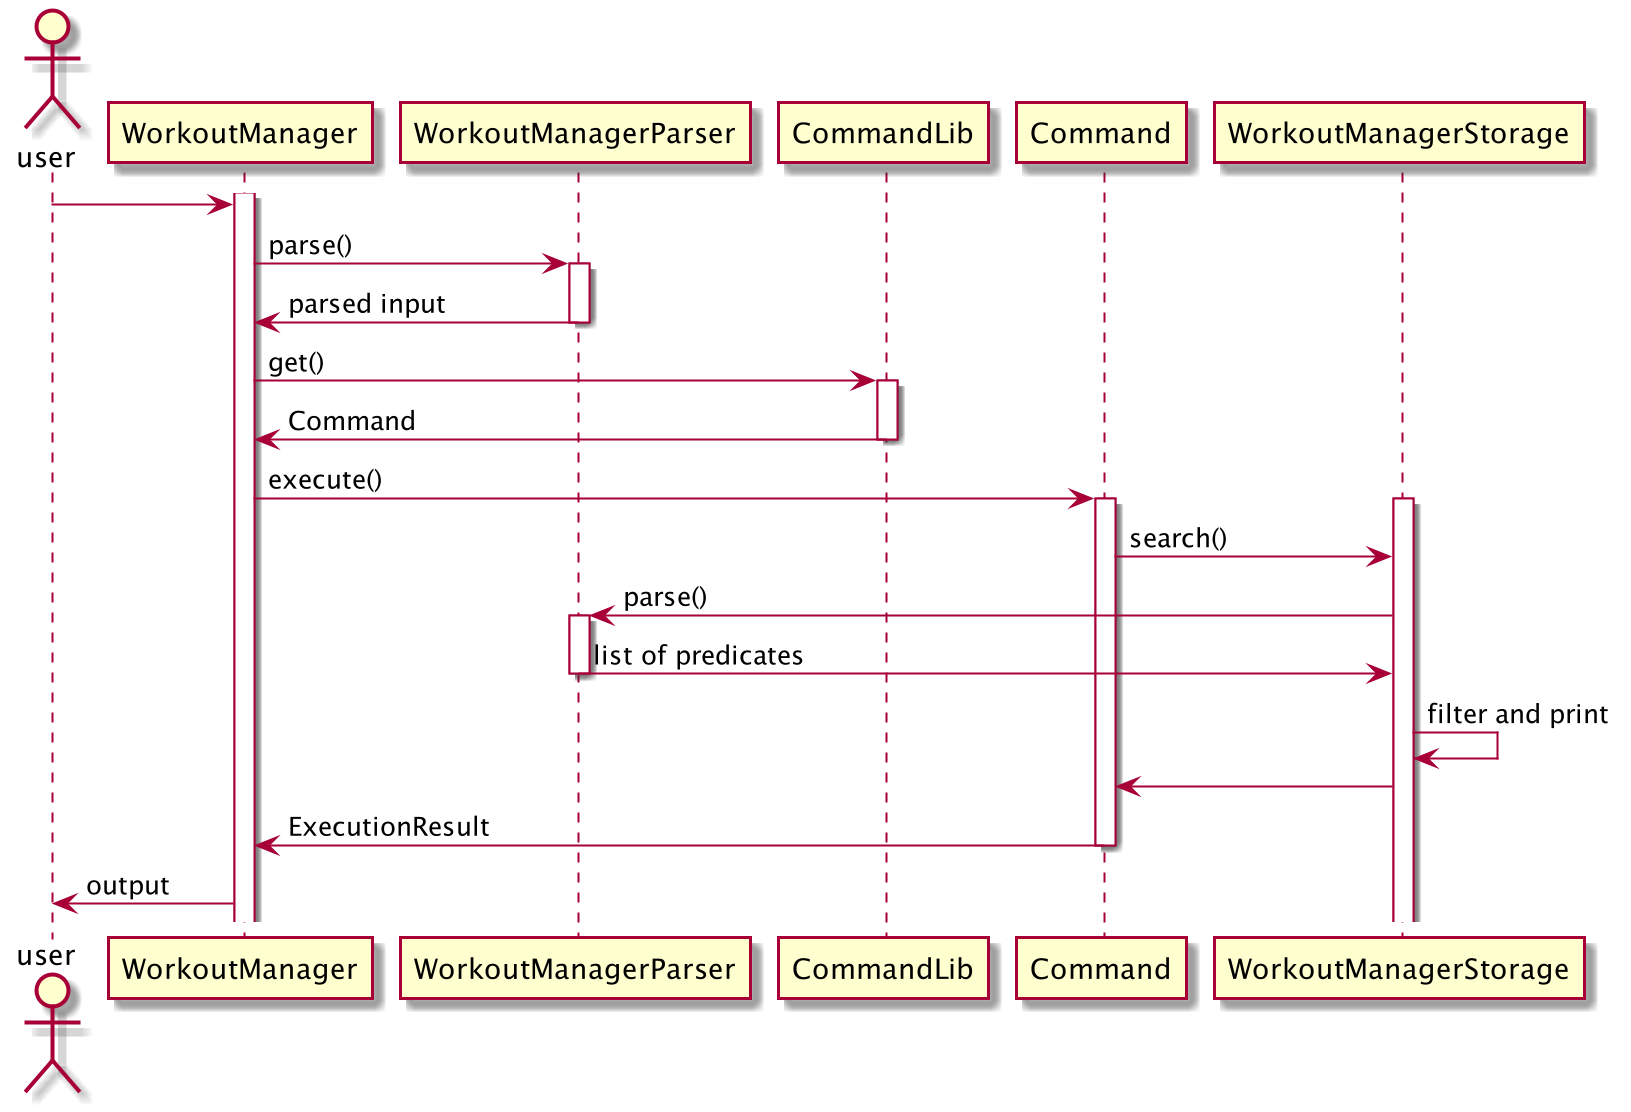
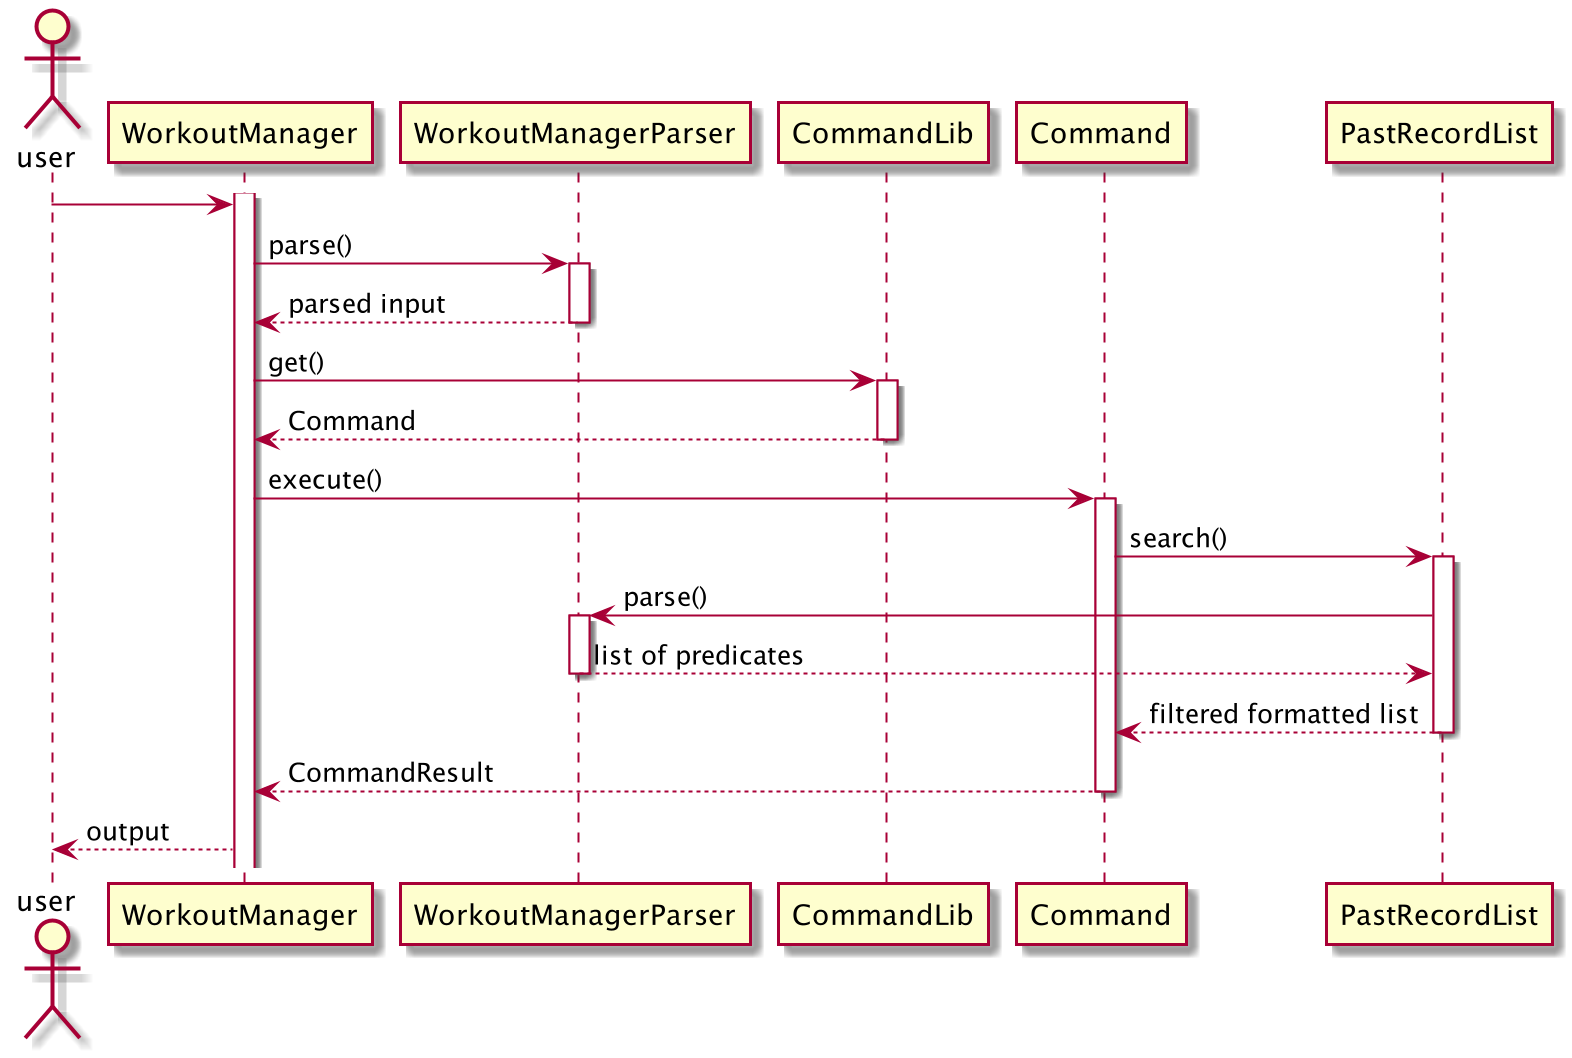
update dg

Changed region(s): [[0.0, 0.0, 0.9975, 0.9981]]

diff --git a/docs/DeveloperGuide.md b/docs/DeveloperGuide.md
@@ -679,7 +679,7 @@ actions are called to return a command object NewWs.
     4. `NewWS` creates a new `WorkoutSession` Object with the file path. 
     5.  `NewWS` calls `workoutSession. workoutSessionStart()` so that user can add information into this session.
     6. After user exits this workout, `WorkoutManager` returns a `CommandResult`.
-1. Based on `CommandResult`, correct response will be be printed to user.
+1. Based on `CommandResult`, correct response will be printed to user.
 
 All description, warnings and response will be handled by `Ui` to ensure consistence across the app.
 The following sequence diagram shows how the new command works
@@ -725,7 +725,7 @@ actions are called to return a command object NewWs.
     1. `WorkoutManager` calls `WorkoutSessionAdd.execute()` with the rest of parsed input.
     2. `WorkoutSessionAdd` parse the arguments to identify the repetitions and weight for the exercise.
     3. `WorkoutSessionAdd` calls `WorkOutSession.Storage.writeToFile()` to store information of all exercises recorded. 
-1. Based on `ExecutionResult`, correct response will be be printed to user.
+1. Based on `ExecutionResult`, correct response will be printed to user.
 
 All description, warnings and response will be handled by `ui` to ensure consistence across the app.
 The following sequence diagram shows how the add command works
@@ -755,7 +755,7 @@ actions are called to return a command object NewWs.
     1. `WorkoutManager` calls `WorkoutSessionAdd.execute()` with the rest of parsed input.
     2. `WorkoutSessionAdd` parse the arguments to identify the repetitions and weight for the exercise.
     3. `WorkoutSessionAdd` calls `WorkOutSession.Storage.writeToFile()` to store information of all exercises recorded. 
-1. Based on `ExecutionResult`, correct response will be be printed to user.
+1. Based on `ExecutionResult`, correct response will be printed to user.
 
 All description, warnings and response will be handled by `ui` to ensure consistence across the app.
 The following sequence diagram shows how the add command works
@@ -781,14 +781,12 @@ The sequence diagram below summarizes how creating new workout session works:
 
 [&#8593; Return to Top](#developer-guide)
 #### 4.4.2. Listing past workout sessions
-The feature to list workoutSessions allows the user to view a summary of all the history 
-workout sessions, including their index, creation date and tags.
+The feature to list workoutSessions allows the user to view a summary of all the history workout sessions, including their index, creation date and tags.
 
 **Implementation**
-When the user attempts to list workoutSessions, the WorkoutManger, WorkoutManagerParse, ListWS and 
-WorkoutManagerStorage class will be called upon. The following sequence of steps will then occur:
+When the user attempts to list workoutSessions, the WorkoutManger, WorkoutManagerParse, ListWS and WorkoutManagerStorage class will be called upon. The following sequence of steps will then occur:
 
-1. User executes `list`
+1. User executes `list /s 20201010 /e 20201025`
      1. `WorkoutManager` calls `Ui.getUserCommand()` to receive user input.
      2. `WorkoutManager` calls `WorkoutManagerParser.parse` into a string array
 1. Creation of command object.
@@ -798,7 +796,10 @@ WorkoutManagerStorage class will be called upon. The following sequence of steps
     3. `ListWS` calls `PastRecordList.list()`
     1. `PastRecordList` will return formatted list.
     6. `WorkoutManager` returns a `CommandResult` which contains the formated list and execution result.
-1. Based on `ExecutionResult`, correct response will be be printed to user.
+1. Based on `CommandResult`, correct response will be printed to user.
+
+![Load Data Sequence Diagram](pictures/zesong/ListWS.png)
+
 **Design considerations**
 Aspects: Security of stored data
 
@@ -817,8 +818,6 @@ print the list
 |**Pros** | More versatile operations can be done.|  
 |**Cons** | All data of pastRecord will be exposed.|
 
-![Load Data Sequence Diagram](pictures/zesong/ListWS.png)
-
 [&#8593; Return to Top](#developer-guide)
 #### 4.4.3. Editing workout session
 User can anytime go back to edit a workout session created in the past such as
@@ -830,8 +829,7 @@ stored in another file which will be loaded as the program initlises.
 The actual workout session record will only be loaded if needed e.g. when editting is called. 
 
 **Implementation**
-When the user attempts to edit a past workout session, the Ui, WorkoutManagerParser, CommandLib
-and WorkoutStorage class will be accessed and the following sequence of 
+When the user attempts to edit a past workout session, the Ui, WorkoutManagerParser, CommandLib and WorkoutStorage class will be accessed and the following sequence of 
 actions are called.
 
 1. User executes `edit 1`
@@ -841,7 +839,7 @@ actions are called.
      1. Based on the parsed input, `WorkoutManager` calls `CommandLib` to return the correct Command Object `EditWS`.
 1. Executing Command
     1. `WorkoutManager` calls `EditWS.execute()` with the rest of parsed input.
-    3. `EditWS` calls `PastRecordList.edit()` to locate the file. If the does not exist, the action is aborted. Else, `PastRecordList` updates the meta information of the file. The file path will be returned.
+    3. `EditWS` calls `PastRecordList.edit()` to locate the file. If the does not exist, the action is aborted. Else, `PastRecordList` updates the meta information of the file and write to local storage. The file path will be returned.
     4. `EditWS` creates a new `WorkoutSession` Object with the file path. `WorkoutSession` is initilised by loading the data in the file.
     5.  `EditWS` calls `workoutSession.workoutSessionStart()` so that user start editing this session.
     6. After user exits this workout, `WorkoutManager` returns a `CommandResult`.
@@ -874,14 +872,9 @@ meta information in a separate file
 #### 4.4.4. Deleting a workout session
 User can delete a workout session created in the past by giving its index.
 
-Each past workout session is stored in a different file name following its creation time.
-The meta information of these past records such as file name, creation time are
-stored in another file which will be loaded as the program initlises.
-When the user tries to delete a file, the application refers to the meta information of the file to locate the
-file and delete it. Then the meta information of the record will be deleted.
+Each past workout session is stored in a different file name following its creation time. The meta information of these past records such as file name, creation time are stored in another file which will be loaded as the program initlises. When the user tries to delete a file, the application refers to the meta information of the file to locate the file and delete it. Then the meta information of the record will be deleted.
 
-User can clear all data by iteratively delete the record until the meta data file is empty. To simplify that,
-user can use `clear` command to achieve that.
+User can clear all data by iteratively delete the record until the meta data file is empty. To simplify that, user can use `clear` command to achieve that.
 
 **Implementation**
 
@@ -896,11 +889,14 @@ and WorkoutStorage class will be accessed and the following sequence of actions 
      or `clearWS`.
 1. Executing Command
     1. `WorkoutManager` calls `DeleteWS.execute()` with the rest of parsed input.
-    3. `DeleteWS` calls `PastRecorList.delete()` to locate the file. If the does not exist, the action is aborted. Else, `PastRecorList` remove the meta information of the file and delete the record file.
+    3. `DeleteWS` calls `PastRecorList.delete()` to locate the file. If the does not exist, the action is aborted. Else, `PastRecorList` remove the meta information of the file and delete the local storage file.
     6. After user exits this workout, `WorkoutManager` returns a `CommandResult`.
 1. Based on `CommandResult`, correct response will be printed to user.
 
 All description, warnings and response will be handled by `Ui` to ensure consistence across the app.
+
+The sequence diagram below summarizes how deleting past record works:
+![Load Data Sequence Diagram](pictures/zesong/DeleteWS.png)
 
 **Design considerations**
 
@@ -915,31 +911,26 @@ All description, warnings and response will be handled by `Ui` to ensure consist
 
 |     |     |
 |-----|-----|
-|**Pros** | More alteratives for users. Can bulk delete files with certain attributes|  
+|**Pros** | More alternatives for users. Can bulk delete files with certain attributes|  
 |**Cons** | Tags and dates does not uniquely identify the record hence may result in accidental wrong deletion|
 #### 4.4.5. Searching based on conditions
 The feature `search` allows the user to view a summary of all the history 
 workout sessions which satisfies certain conditions.
 
-The user can search by the date of creation or the tags that the session has. User can put in 0
+The user can search by the date of creation, or the tags that the session has. User can put in 0
 or 1 or 2 criteria during search. 
 
-**Implementation**
-Format: `search /t <tag1> <tag2> /d <date>`
 
-The user can attach variable number of tags after `/t` and one date after `/d`. The date must be specified
-in certain formats for it to be recognisable. Else, it will be treated as there is no date criteria given.
+The user can attach variable number of tags after `/t` and one date after `/d`. The date must be specified in certain formats for it to be recognisable. Else, it will be treated as there is no date criteria given.
 [See here](#appendix-g-supported-formats-of-date-input) for all supported formats.
 
-The tag criterion selects sessions which contains all the tags that the user specified in the search.
-The date criterion selects the sessions which is created on that date. Only sessoins that satisfies all condtions 
-will be selected and displayed.
+The tag criterion selects sessions which contains all the tags that the user specified in the search. The date criterion selects the sessions which is created on that date. Only sessions that satisfies all conditions will be selected and displayed.
 
-The result is displayed in a table with the index of the selected records so that users can easily 
-do further operations on them, e.g. `delete` or `edit`.
+The result is displayed in a table with the index of the selected records so that users can easily do further operations on them, e.g. `delete` or `edit`.
  
-When the user attempts to list workoutSessions, the WorkoutManger, DeleteWS, WorkoutManagerStorage and 
-WorkoutManagerParse class will be called upon. The following sequence of steps will then occur:
+ **Implementation**
+ 
+When the user attempts to list workoutSessions, the WorkoutManger, DeleteWS, WorkoutManagerStorage and WorkoutManagerParse class will be called upon. The following sequence of steps will then occur:
 
 1. User executes `search /t leg /d 20201017`
      1. `WorkoutManager` calls `Ui.getUserCommand()` to receive user input.
@@ -948,22 +939,18 @@ WorkoutManagerParse class will be called upon. The following sequence of steps w
      1. Based on the parsed input, `WorkoutManager` calls `CommandLib` to return the correct Command Object `SearchWS`.
 1. Executing Command
     1. `WorkoutManager` calls `SearchWS.execute()` to execute the command
-    3. `SearchWS` calls `WorkOutManagerStorage.search()`
-    1. `WorkOutManagerStorage` will call `WorkoutManagerParser.parse` to parse the arguments into
-    an array of predicates
-    1. `WorkOutManagerStorage` filters the pastRecord arraylist and print out the ones
-    which satisfy the predication.
-    6. `WorkoutManager` returns a `ExecutionResult`.
-1. Based on `ExecutionResult`, correct response will be be printed to user.
+    3. `SearchWS` calls `PastRecorList.search()`
+    1. `PastRecorList` will call `WorkoutManagerParser.parse` to parse the arguments into an array of predicates
+    1. `PastRecorList` filters the pastRecord arraylist and return a string representation of the filtered records to `WorkoutManager`
+    6. `WorkoutManager` returns a `CommandResult`.
+1. Based on `CommandResult`, correct response will be printed to user.
 
 The sequence diagram below summarizes how searching record works:
 ![Load Data Sequence Diagram](pictures/zesong/SearchWS.png)
 **Design considerations**
 Aspects: indexing the selected results
 
-The index of an record is not stored in the schema because it easily varies with 
-addition and deletion. Thus given a record, searching for its index will have higher
-time complexity.
+The index of a record is not stored in the schema because it easily varies with addition and deletion. Thus given a record, searching for its index will have higher time complexity.
 
 - Alternative 1 (current choice): print out the actual index of the record 
 in the meta info file.
@@ -990,7 +977,7 @@ Storage in the application refers to storing files of user profile and workout, 
 #### 4.6.1. Storage for profile
 
 #### 4.6.2. Storage for diet
-Storage for diet saves diet sessions created as individual files sorted based on the time created in the /saves/diet directory. Each diet session file is created as follows:
+Storage for diet saves diet sessions created as individual files sorted based on the time created in the `/saves/diet` directory. Each diet session file is created as follows:
 - Each file is created as a json file and named as `[date] [tag].json`.
 - A corresponding file is updated in the local file when the user edits a diet session by calling DietSessionEdit.execute().
 - A corresponding file is deleted in the local file when the user deletes a diet session by calling DietSessionDelete.execute() or clears all diet sessions by calling DietSessionClear.execute().
@@ -999,6 +986,15 @@ Storage for diet saves diet sessions created as individual files sorted based on
 Storage handles reading of file data by calling readDietSession() and overwriting of file data by calling writeToStorageDietSession().
 
 #### 4.6.3. Storage for workout
+
+Storage for workout saves workout sessions created as individual files named based on the time created in `/saves/workout` directory. The metainformation of the files such as createion date and last edit date is saved in  `/saves/workout/history.json`.
+
+Only history.json file is load when initilizing the application. The rest of Session files are load on request, e.g. `edit`. When a new workout session is created, a new file will be stored and its meta information will be appended to `history.json`. When a workout session is deleted, the file will be removed and its record will be removed from `history.json`.
+
+
+**Implementation**
+
+Meta information file can be overwritten with `writePastRecords()` and be read with `readPastRecords()`.
 
 
 ### 4.7. <a id="logging">Logging</a>
@@ -1077,7 +1073,7 @@ __Target user profile__:
 ### Appendix F: Instructions for Manual Testing
 #### F.1. Launch and Shutdown
 ### Appendix G: Supported Formats of Date Input
-Here shows all 12 valid formats.
+Here shows all 14 valid formats.
     
     `yyyyMMdd HH:mm`
     `yyyy-MM-dd HH:mm`
@@ -1093,5 +1089,8 @@ Here shows all 12 valid formats.
     `yyyy-MM-dd`
     `yyyy MM dd`
     `yyyy/MM/dd`
+    
+    `dd MM yyyy`
+    `ddMMyyyy`
 
 [&#8593; Return to Top](#developer-guide)

diff --git a/docs/UserGuide.md b/docs/UserGuide.md
@@ -584,7 +584,7 @@ Expected output:
 ### 3.4.6. <a id="workout-search">Searching a List of Workout Session: `search`</a>
 You can search for a list of workout sessions that matches certain conditions. For example, you can search for sessions created on a specific day or sessions that contains certain tags.
 
-__Format:__ `Search [/d <DATE>] [/t <TAG>...]`
+__Format:__ `Search </d [DATE]> </t [TAG]...>`
 
 - Tag condition
 
@@ -709,9 +709,9 @@ Return to Main Menu|`end`
 --------|----------------------
 Start workout session |`new [/t <TAG>...]`<br><br>E.g. `new /t leg, chest`
 List|`list [/s <START DATE>] [/e <END DATE]`<br><br>E.g. `list /s 20201001 /e 2020/10/25`
-Edit|`edit <session ID>`<br><br>E.g. `edit 1`
-Delete|`delete <session ID>`<br><br>E.g. `delete 1`
-Search|`search /d <date> /t <tag1> <tag2>`<br><br>E.g. `search /t leg day, chest /d 2020-10-18`
+Edit|`edit <INDEX>`<br><br>E.g. `edit 1`
+Delete|`delete <INDEX>`<br><br>E.g. `delete 1`
+Search|`search </d [DATE]> </t [TAG]...>`<br><br>E.g. `search /t leg day, chest /d 2020-10-18`
 Help|`help`
 Clear|`clear`
 Return to Main Menu|`end`
